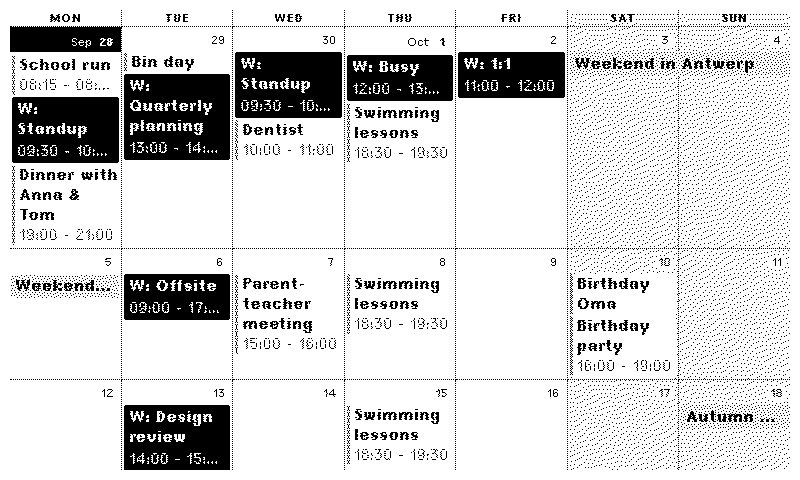
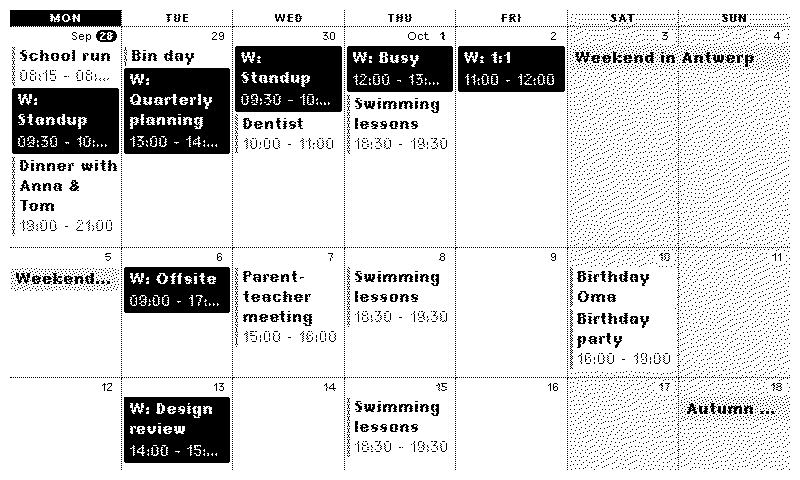
Mark today with an inverted weekday header and a pill; align week numbers
Today's weekday is inverted in the header row and its day number gets a
bold black pill, replacing the black band. The week number now starts on
the same line as the day number and month label.

Claude-Session: https://claude.ai/code/session_01DCfjsPe6GH25dcugd6rvFh

diff --git a/UPSTREAM.md b/UPSTREAM.md
@@ -55,8 +55,8 @@ treats its native plugins as source-available and is fine with them being remixe
   `dayMaxEvents` ("+N more").
 - **Day headers and today**: weekday names are small, uppercase and letter-spaced
   instead of `text--base`; month labels use the short month name ("Sep") instead of the
-  long one, which got cut off. Today is marked by a black band across the top of its
-  cell rather than a pill around the number. Events that are over are faded
+  long one, which got cut off. Today's weekday is also inverted in the header row,
+  on top of upstream's pill around the number (now bold). Events that are over are faded
   (`fade_past_events`, greyscale screens and `Dither` only).
 - **1-/2-bit screens** (`Adapt styles`): weekend shading only in the header row, and
   event times in solid black instead of `text--muted`, since grey patterns break up

diff --git a/README.md b/README.md
@@ -168,7 +168,7 @@ place and keeps your settings.
 | Time format | 24 hour | |
 | Show event times / end times | yes / yes | Times go on their own line below the title. End times only show with event times on |
 | Show past events | yes | Earlier days of the current week |
-| Highlight today | yes | Today's day number sits in a black band across the top of its cell |
+| Highlight today | yes | Today's weekday is inverted in the header row and its day number gets a black pill |
 | Fade past events | yes | Events that are over are drawn faded. Greyscale screens (TRMNL X) and `Dither` only |
 | Shade weekends | yes | |
 | Busy weeks | Show fewer weeks | What happens when the weeks don't all fit, see below |
